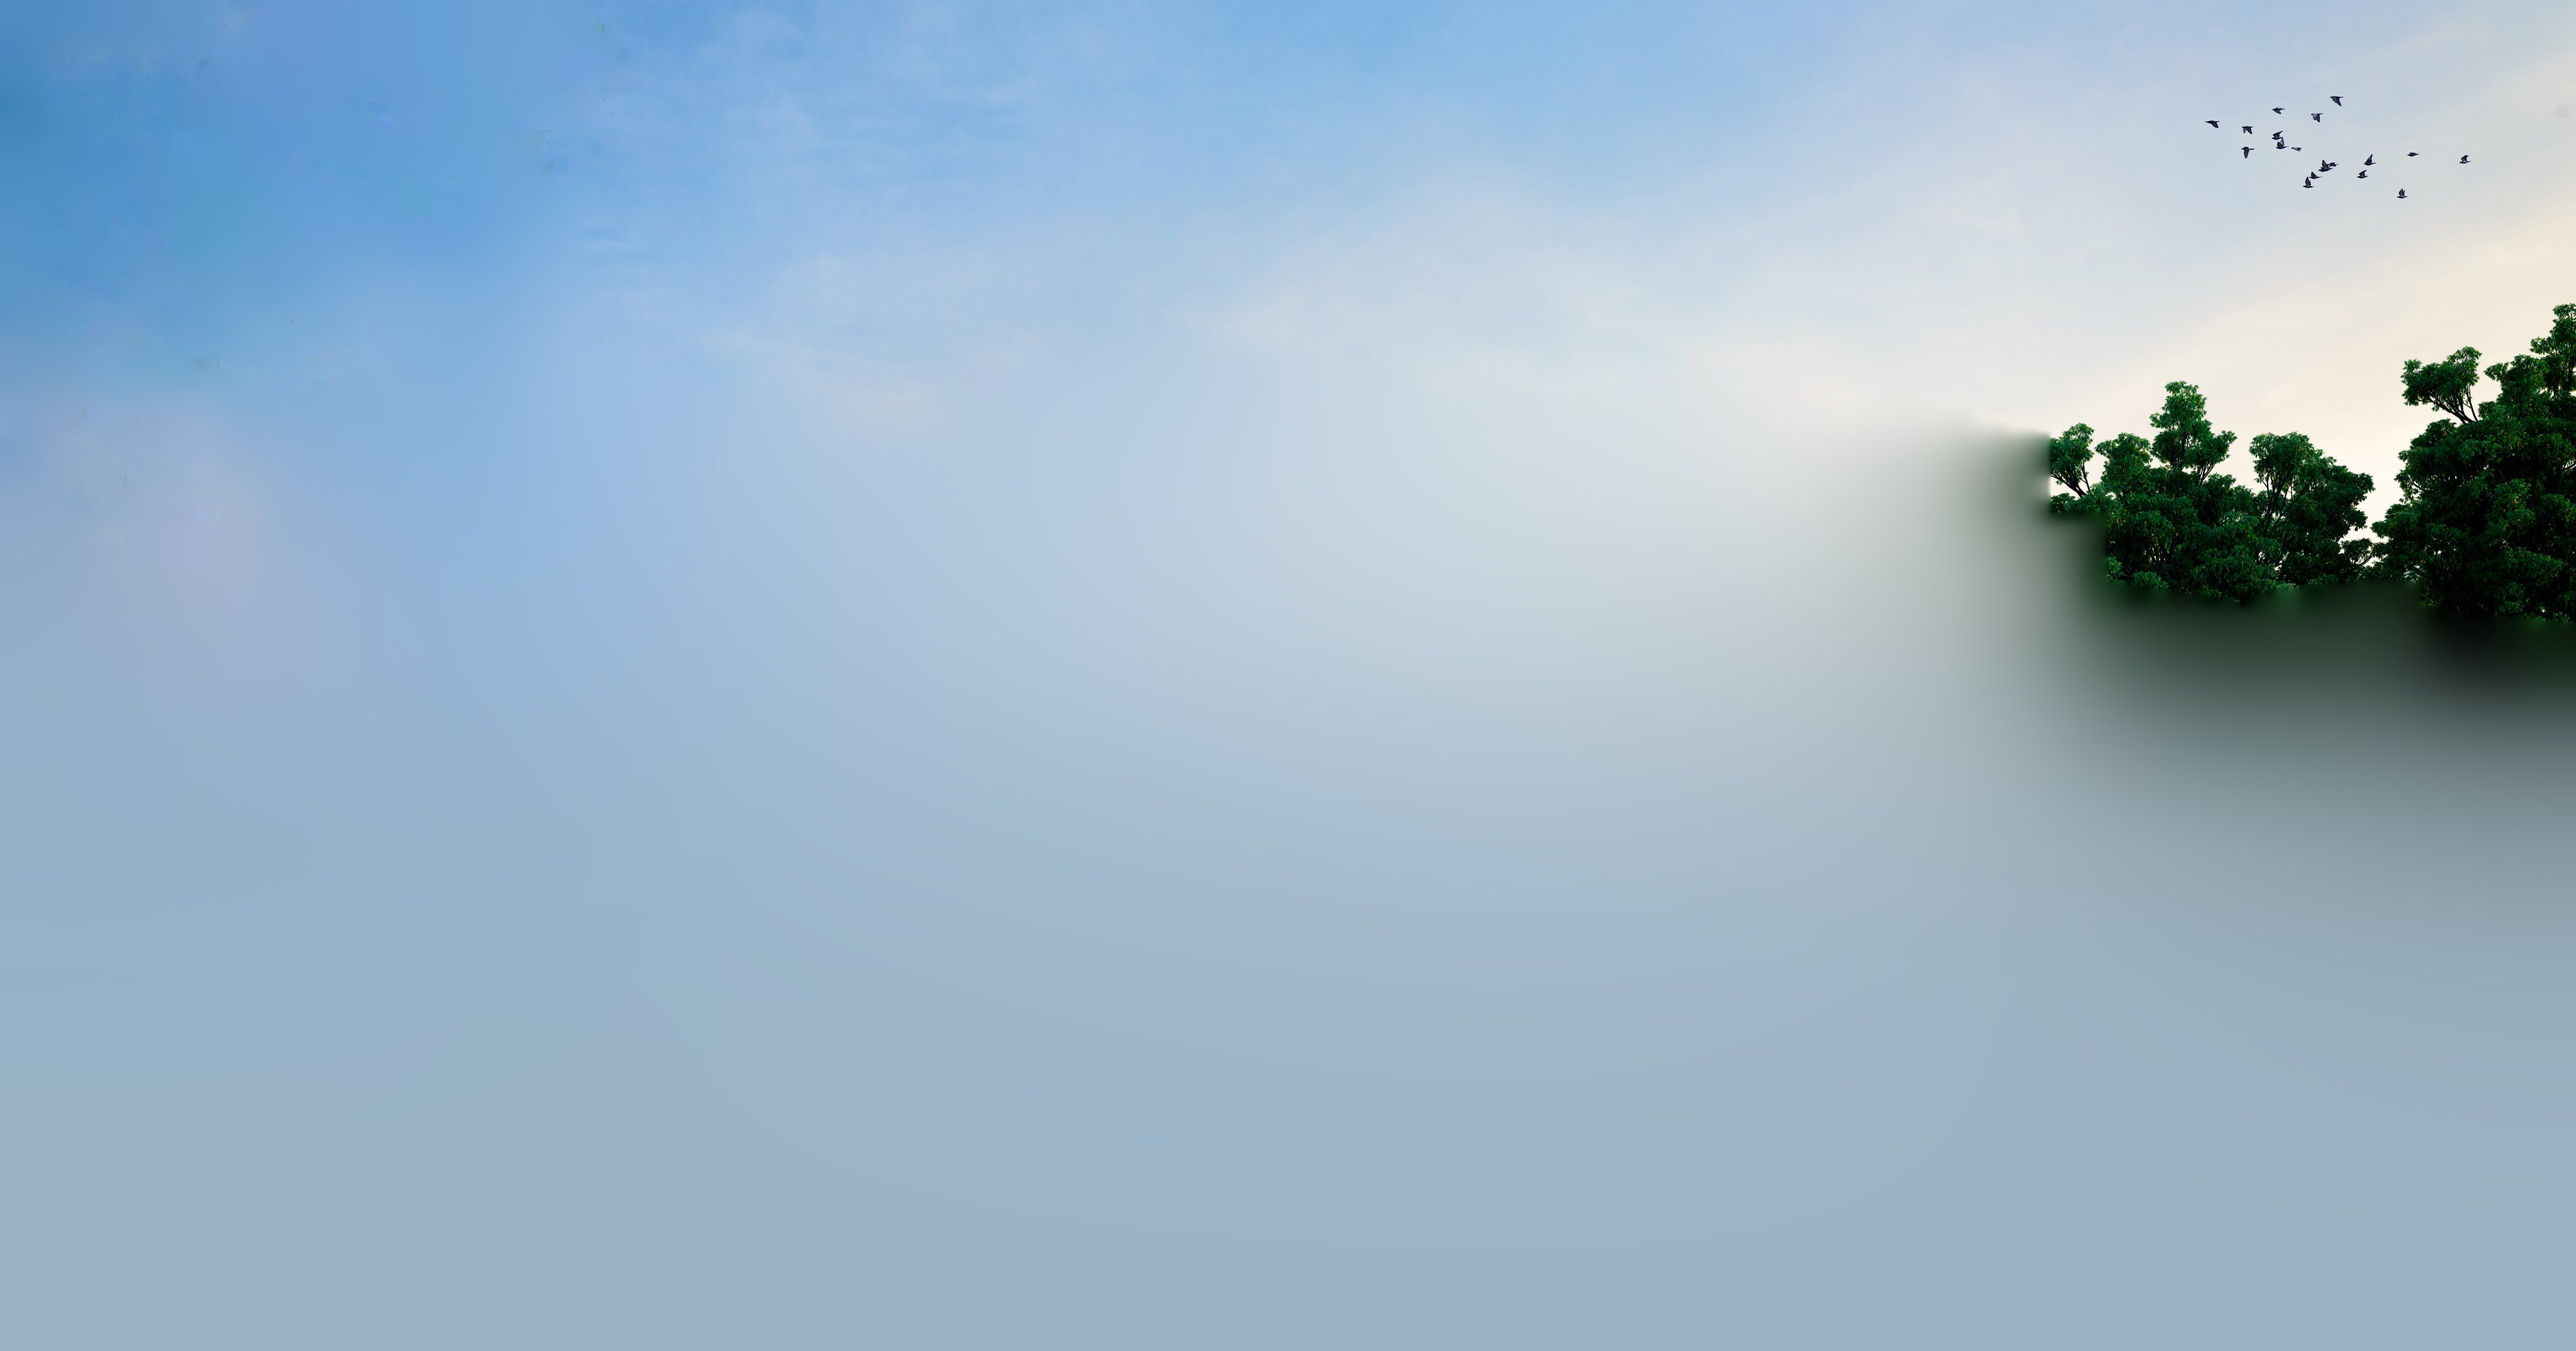
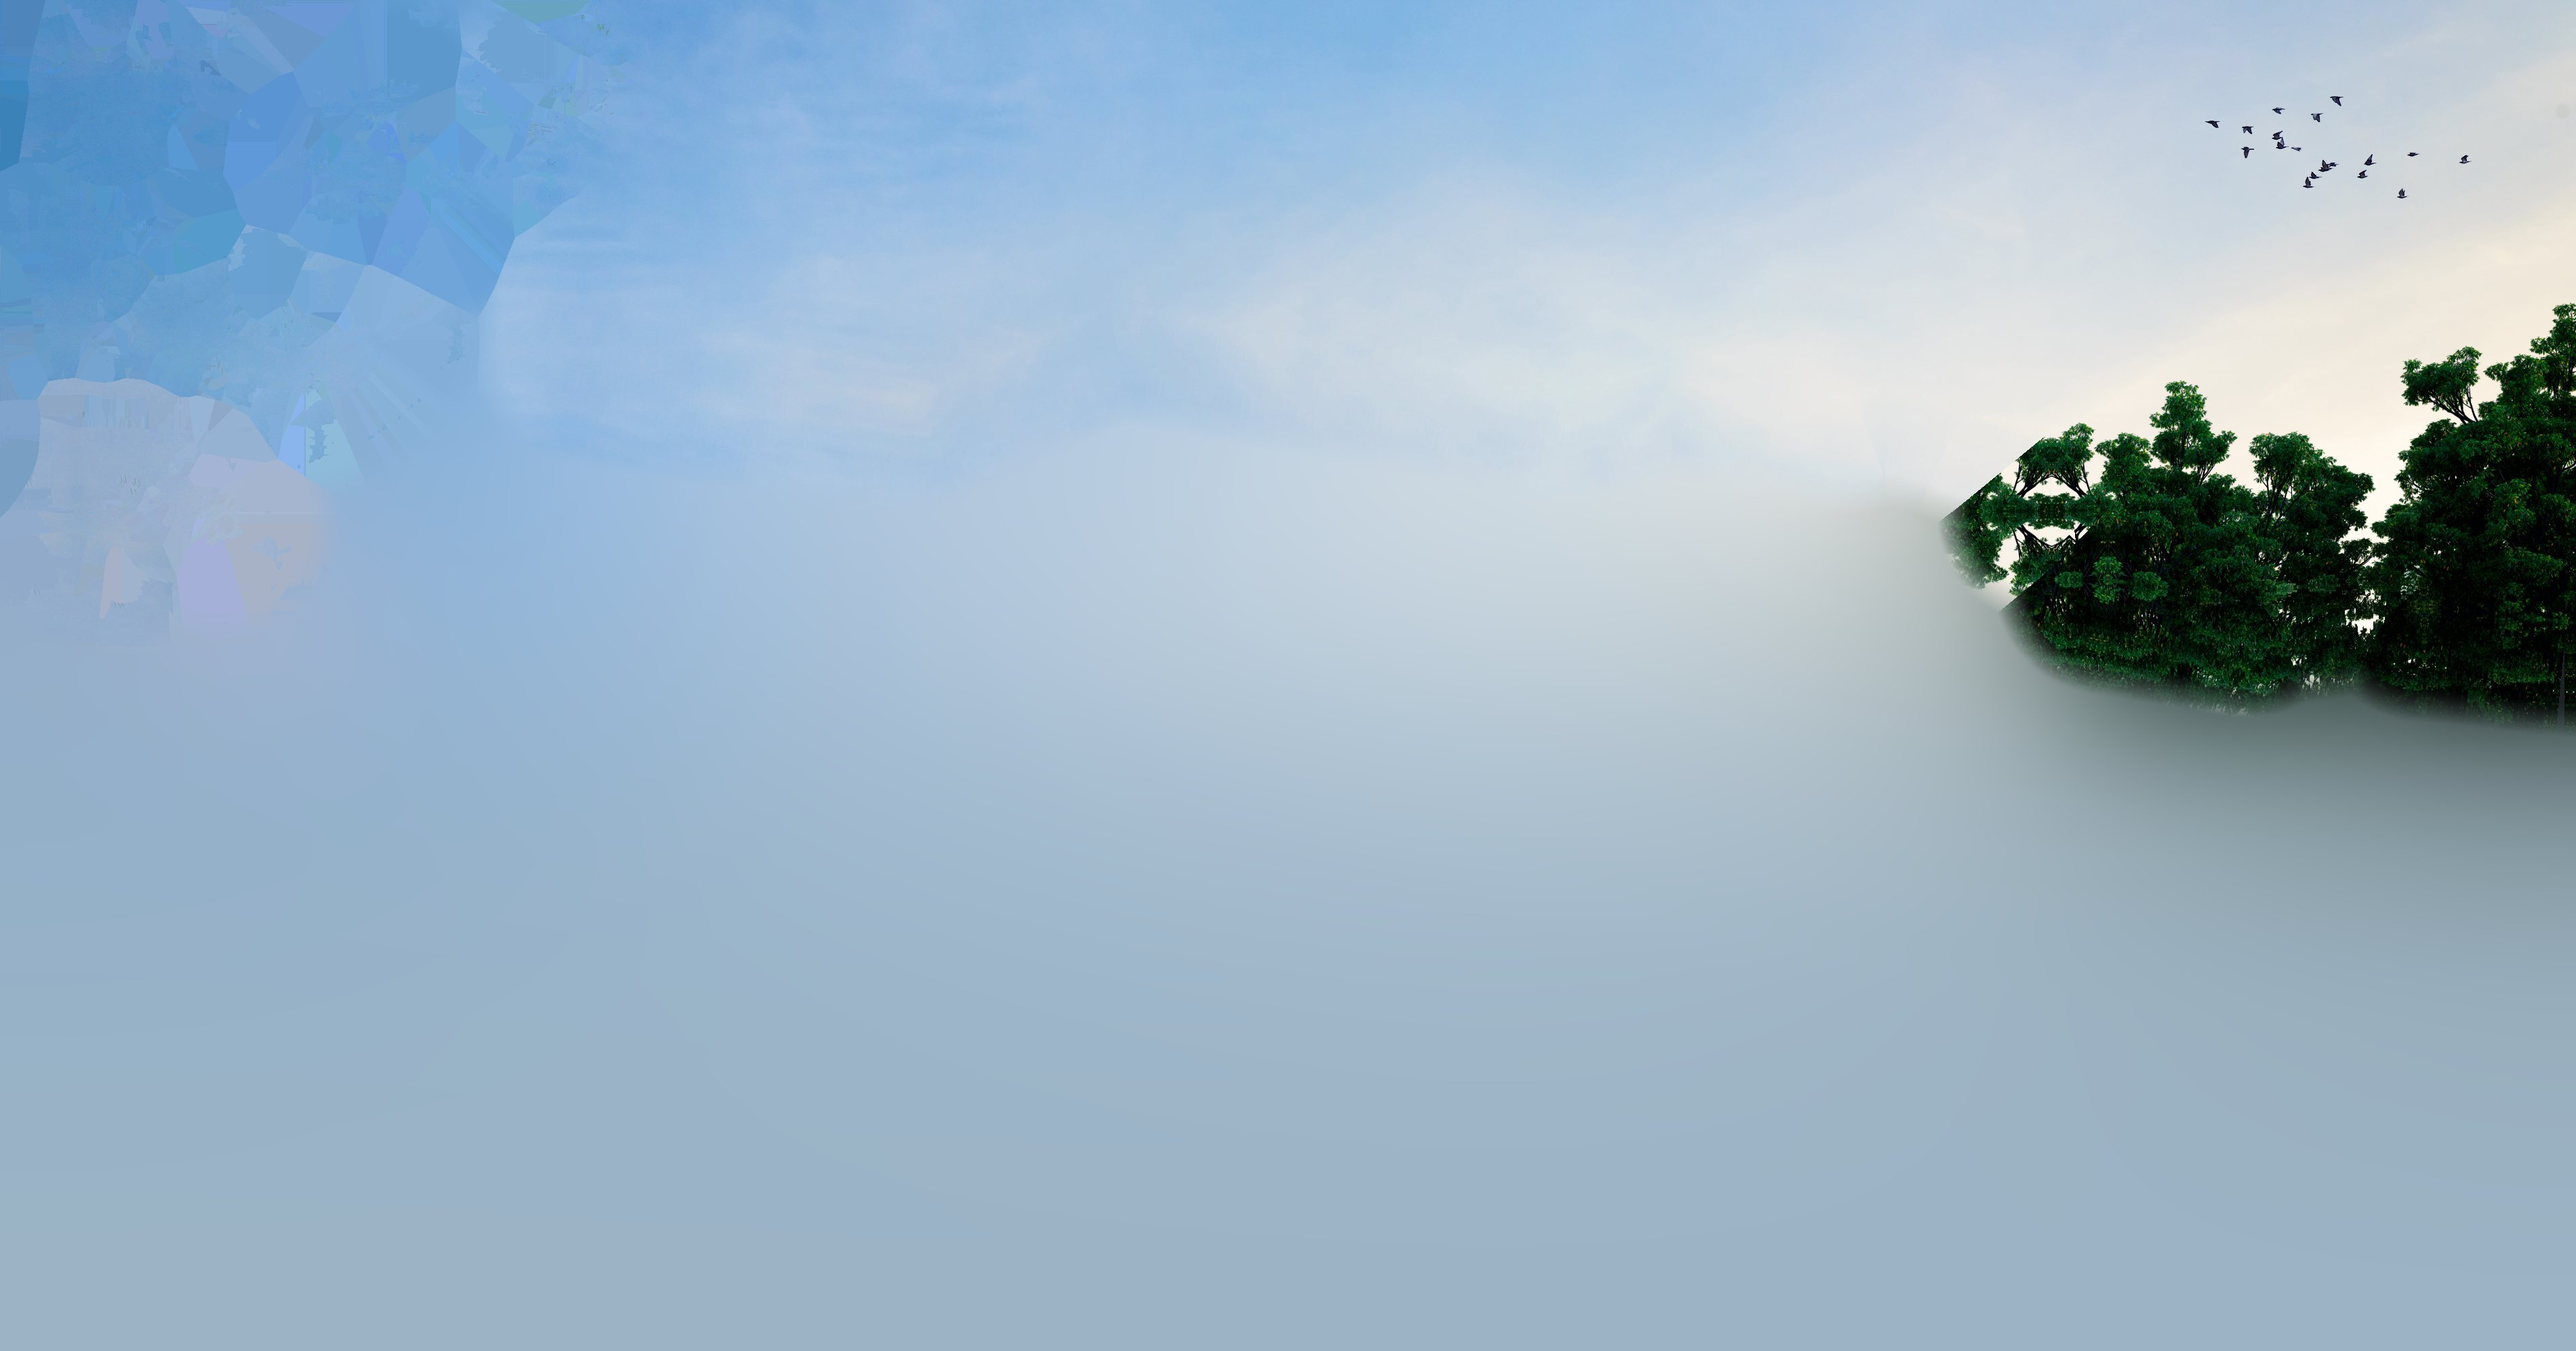
Carry the trees on behind the house where it moves aside
With the pointer at the right, the house moves left and uncovered a
blurred band of the sky plate's fill beside the right wing and above the
low wall. Within 120px of the edge (more than the house ever moves) the
sky plate now takes the far plane's own texture mirrored across the edge,
so the trees continue behind the wing as foliage; the smooth fill stays
only farther in, where it never shows.

Claude-Session: https://claude.ai/code/session_01BHMRxG4QNAcN2WG7p5xrWJ

Changed region(s): [[0.7453, 0.3109, 1.0, 0.5597]]

diff --git a/docs/IMAGES.md b/docs/IMAGES.md
@@ -36,7 +36,7 @@ Where they appear:
 The homepage hero stands the name behind the house, so the terrace rendering is used in planes (`heroLayers` in `src/content/imagery.ts`), each at the picture's own size and with its own tall crop:
 
 - **The matte** (`contemporary-house-terrace-matte.webp`, `-tall-matte.webp`): what stands in front of the name (the house, the pine, the trees on the left and the ground) as an 8-bit alpha, saved as lossless WebP. The roofline and the walls were traced as polygons on edges fitted to the picture, so the roof's edge is crisp; the pine's and the trees' needles were keyed against the sky by brightness and hardened, so thin needles do not wash out. It masks the rendering itself (a CSS mask), so the house in front is the original picture.
-- **The sky** (`contemporary-house-terrace-sky.jpg`, `-tall-sky.jpg`): the rendering with everything the matte keeps taken out and the sky rebuilt into the gap from the sky around it (a push-pull fill), with the distant trees on the right and the birds kept. Only a narrow band of the rebuilt part ever shows, where the house uncovers it as it moves, and no ghost of the roof is left in it.
+- **The sky** (`contemporary-house-terrace-sky.jpg`, `-tall-sky.jpg`): the rendering with everything the matte keeps taken out and the sky rebuilt into the gap, with the distant trees on the right and the birds kept. Within 120px of the edge (more than the house ever moves) the gap takes the far plane's own texture, mirrored across the edge, so the trees behind the right wing carry on behind it as foliage; farther in it is a smooth fill from the sky around it (push-pull), which never shows. No ghost of the roof is left in it.
 - **The geometry** the stylesheet places the name by was measured on the same picture: the roof's peak (1639.8, 456.4), the chimney's edge (x 900) and the roof's slopes either side of the peak (0.4728 and 0.1854), in the picture's pixels (`globals.css`, "Hero"). A different hero picture needs its own matte, sky and numbers.
 
 ### The story drawing
